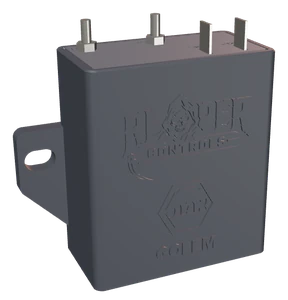
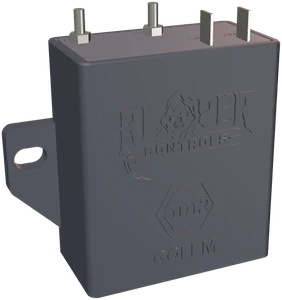
Enlarge Wraith and Golem card renders about 25%
Tighter crop and no inner padding so each enclosure fills the card
image area; bump stylesheet version tag so Cloudflare serves the change.

Claude-Session: https://claude.ai/code/session_017d4xV8nYNd6GND1MhNhtk5

diff --git a/products.html b/products.html
@@ -22,7 +22,7 @@
 <link rel="preconnect" href="https://fonts.googleapis.com">
 <link rel="preconnect" href="https://fonts.gstatic.com" crossorigin>
 <link href="https://fonts.googleapis.com/css2?family=Oswald:wght@500;600;700&family=Spectral:ital,wght@0,400;0,500;0,600;1,400&family=IBM+Plex+Mono:wght@400;500&display=swap" rel="stylesheet">
-<link rel="stylesheet" href="css/style.css?v=20261022">
+<link rel="stylesheet" href="css/style.css?v=20261022b">
 </head>
 <body>
 
@@ -52,7 +52,7 @@
     </a>
 
     <a class="card" href="products/golem.html">
-      <span class="card-teaser card-teaser--render"><img src="images/renders/golem-enclosure.webp" alt="3D render of the Golem prototype enclosure with spade and stud terminals on top and a mounting ear" width="288" height="300"><span class="card-teaser-banner">3D Render</span></span>
+      <span class="card-teaser card-teaser--render"><img src="images/renders/golem-enclosure.webp" alt="3D render of the Golem prototype enclosure with spade and stud terminals on top and a mounting ear" width="282" height="300"><span class="card-teaser-banner">3D Render</span></span>
       <span class="badge">Prototype Hardware</span>
       <h3>Golem</h3>
       <p>A 40A solid-state relay that regenerates your ECU's slow PWM at the frequency you choose, with built-in current sensing and phone setup. Works with Holley, Haltech and most ECUs.</p>
@@ -66,7 +66,7 @@
     </a>
 
     <a class="card" href="products/wraith.html">
-      <span class="card-teaser card-teaser--render"><img src="images/renders/wraith-enclosure.webp" alt="3D render of the Wraith prototype enclosure with the Reaper Controls logo and a mounting ear" width="271" height="300"><span class="card-teaser-banner">3D Render</span></span>
+      <span class="card-teaser card-teaser--render"><img src="images/renders/wraith-enclosure.webp" alt="3D render of the Wraith prototype enclosure with the Reaper Controls logo and a mounting ear" width="262" height="300"><span class="card-teaser-banner">3D Render</span></span>
       <span class="badge">In Production</span>
       <h3>Wraith</h3>
       <p>Closed-loop PWM fuel pump controller. Real-time pressure control instead of guesswork threshold switching.</p>

diff --git a/articles/do-you-need-pwm.html b/articles/do-you-need-pwm.html
@@ -22,7 +22,7 @@
 <link rel="preconnect" href="https://fonts.googleapis.com">
 <link rel="preconnect" href="https://fonts.gstatic.com" crossorigin>
 <link href="https://fonts.googleapis.com/css2?family=Oswald:wght@500;600;700&family=Spectral:ital,wght@0,400;0,500;0,600;1,400&family=IBM+Plex+Mono:wght@400;500&display=swap" rel="stylesheet">
-<link rel="stylesheet" href="../css/style.css?v=20261022">
+<link rel="stylesheet" href="../css/style.css?v=20261022b">
 <script type="application/ld+json">
 {
   "@context": "https://schema.org",

diff --git a/articles/pwm-frequency-fuel-pump.html b/articles/pwm-frequency-fuel-pump.html
@@ -22,7 +22,7 @@
 <link rel="preconnect" href="https://fonts.googleapis.com">
 <link rel="preconnect" href="https://fonts.gstatic.com" crossorigin>
 <link href="https://fonts.googleapis.com/css2?family=Oswald:wght@500;600;700&family=Spectral:ital,wght@0,400;0,500;0,600;1,400&family=IBM+Plex+Mono:wght@400;500&display=swap" rel="stylesheet">
-<link rel="stylesheet" href="../css/style.css?v=20261022">
+<link rel="stylesheet" href="../css/style.css?v=20261022b">
 <script type="application/ld+json">
 {
   "@context": "https://schema.org",

diff --git a/articles/rpm-vs-pressure-fuel-control.html b/articles/rpm-vs-pressure-fuel-control.html
@@ -22,7 +22,7 @@
 <link rel="preconnect" href="https://fonts.googleapis.com">
 <link rel="preconnect" href="https://fonts.gstatic.com" crossorigin>
 <link href="https://fonts.googleapis.com/css2?family=Oswald:wght@500;600;700&family=Spectral:ital,wght@0,400;0,500;0,600;1,400&family=IBM+Plex+Mono:wght@400;500&display=swap" rel="stylesheet">
-<link rel="stylesheet" href="../css/style.css?v=20261022">
+<link rel="stylesheet" href="../css/style.css?v=20261022b">
 <script type="application/ld+json">
 {
   "@context": "https://schema.org",

diff --git a/articles/tach-pullup-resistor-gaps.html b/articles/tach-pullup-resistor-gaps.html
@@ -22,7 +22,7 @@
 <link rel="preconnect" href="https://fonts.googleapis.com">
 <link rel="preconnect" href="https://fonts.gstatic.com" crossorigin>
 <link href="https://fonts.googleapis.com/css2?family=Oswald:wght@500;600;700&family=Spectral:ital,wght@0,400;0,500;0,600;1,400&family=IBM+Plex+Mono:wght@400;500&display=swap" rel="stylesheet">
-<link rel="stylesheet" href="../css/style.css?v=20261022">
+<link rel="stylesheet" href="../css/style.css?v=20261022b">
 <script type="application/ld+json">
 {
   "@context": "https://schema.org",

diff --git a/articles/tach-signal-types.html b/articles/tach-signal-types.html
@@ -22,7 +22,7 @@
 <link rel="preconnect" href="https://fonts.googleapis.com">
 <link rel="preconnect" href="https://fonts.gstatic.com" crossorigin>
 <link href="https://fonts.googleapis.com/css2?family=Oswald:wght@500;600;700&family=Spectral:ital,wght@0,400;0,500;0,600;1,400&family=IBM+Plex+Mono:wght@400;500&display=swap" rel="stylesheet">
-<link rel="stylesheet" href="../css/style.css?v=20261022">
+<link rel="stylesheet" href="../css/style.css?v=20261022b">
 <script type="application/ld+json">
 {
   "@context": "https://schema.org",

diff --git a/products/golem.html b/products/golem.html
@@ -22,7 +22,7 @@
 <link rel="preconnect" href="https://fonts.googleapis.com">
 <link rel="preconnect" href="https://fonts.gstatic.com" crossorigin>
 <link href="https://fonts.googleapis.com/css2?family=Oswald:wght@500;600;700&family=Spectral:ital,wght@0,400;0,500;0,600;1,400&family=IBM+Plex+Mono:wght@400;500&display=swap" rel="stylesheet">
-<link rel="stylesheet" href="../css/style.css?v=20261022">
+<link rel="stylesheet" href="../css/style.css?v=20261022b">
 <script type="application/ld+json">
 {
   "@context": "https://schema.org",

diff --git a/products/hob.html b/products/hob.html
@@ -22,7 +22,7 @@
 <link rel="preconnect" href="https://fonts.googleapis.com">
 <link rel="preconnect" href="https://fonts.gstatic.com" crossorigin>
 <link href="https://fonts.googleapis.com/css2?family=Oswald:wght@500;600;700&family=Spectral:ital,wght@0,400;0,500;0,600;1,400&family=IBM+Plex+Mono:wght@400;500&display=swap" rel="stylesheet">
-<link rel="stylesheet" href="../css/style.css?v=20261022">
+<link rel="stylesheet" href="../css/style.css?v=20261022b">
 <script type="application/ld+json">
 {
   "@context": "https://schema.org",

diff --git a/products/puca.html b/products/puca.html
@@ -22,7 +22,7 @@
 <link rel="preconnect" href="https://fonts.googleapis.com">
 <link rel="preconnect" href="https://fonts.gstatic.com" crossorigin>
 <link href="https://fonts.googleapis.com/css2?family=Oswald:wght@500;600;700&family=Spectral:ital,wght@0,400;0,500;0,600;1,400&family=IBM+Plex+Mono:wght@400;500&display=swap" rel="stylesheet">
-<link rel="stylesheet" href="../css/style.css?v=20261022">
+<link rel="stylesheet" href="../css/style.css?v=20261022b">
 <script type="application/ld+json">
 {
   "@context": "https://schema.org",

diff --git a/products/wendigo.html b/products/wendigo.html
@@ -22,7 +22,7 @@
 <link rel="preconnect" href="https://fonts.googleapis.com">
 <link rel="preconnect" href="https://fonts.gstatic.com" crossorigin>
 <link href="https://fonts.googleapis.com/css2?family=Oswald:wght@500;600;700&family=Spectral:ital,wght@0,400;0,500;0,600;1,400&family=IBM+Plex+Mono:wght@400;500&display=swap" rel="stylesheet">
-<link rel="stylesheet" href="../css/style.css?v=20261022">
+<link rel="stylesheet" href="../css/style.css?v=20261022b">
 <script type="application/ld+json">
 {
   "@context": "https://schema.org",

diff --git a/products/wraith.html b/products/wraith.html
@@ -22,7 +22,7 @@
 <link rel="preconnect" href="https://fonts.googleapis.com">
 <link rel="preconnect" href="https://fonts.gstatic.com" crossorigin>
 <link href="https://fonts.googleapis.com/css2?family=Oswald:wght@500;600;700&family=Spectral:ital,wght@0,400;0,500;0,600;1,400&family=IBM+Plex+Mono:wght@400;500&display=swap" rel="stylesheet">
-<link rel="stylesheet" href="../css/style.css?v=20261022">
+<link rel="stylesheet" href="../css/style.css?v=20261022b">
 <script type="application/ld+json">
 {
   "@context": "https://schema.org",

diff --git a/index.html b/index.html
@@ -22,7 +22,7 @@
 <link rel="preconnect" href="https://fonts.googleapis.com">
 <link rel="preconnect" href="https://fonts.gstatic.com" crossorigin>
 <link href="https://fonts.googleapis.com/css2?family=Oswald:wght@500;600;700&family=Spectral:ital,wght@0,400;0,500;0,600;1,400&family=IBM+Plex+Mono:wght@400;500&display=swap" rel="stylesheet">
-<link rel="stylesheet" href="css/style.css?v=20261022">
+<link rel="stylesheet" href="css/style.css?v=20261022b">
 <script type="application/ld+json">
 {
   "@context": "https://schema.org",
